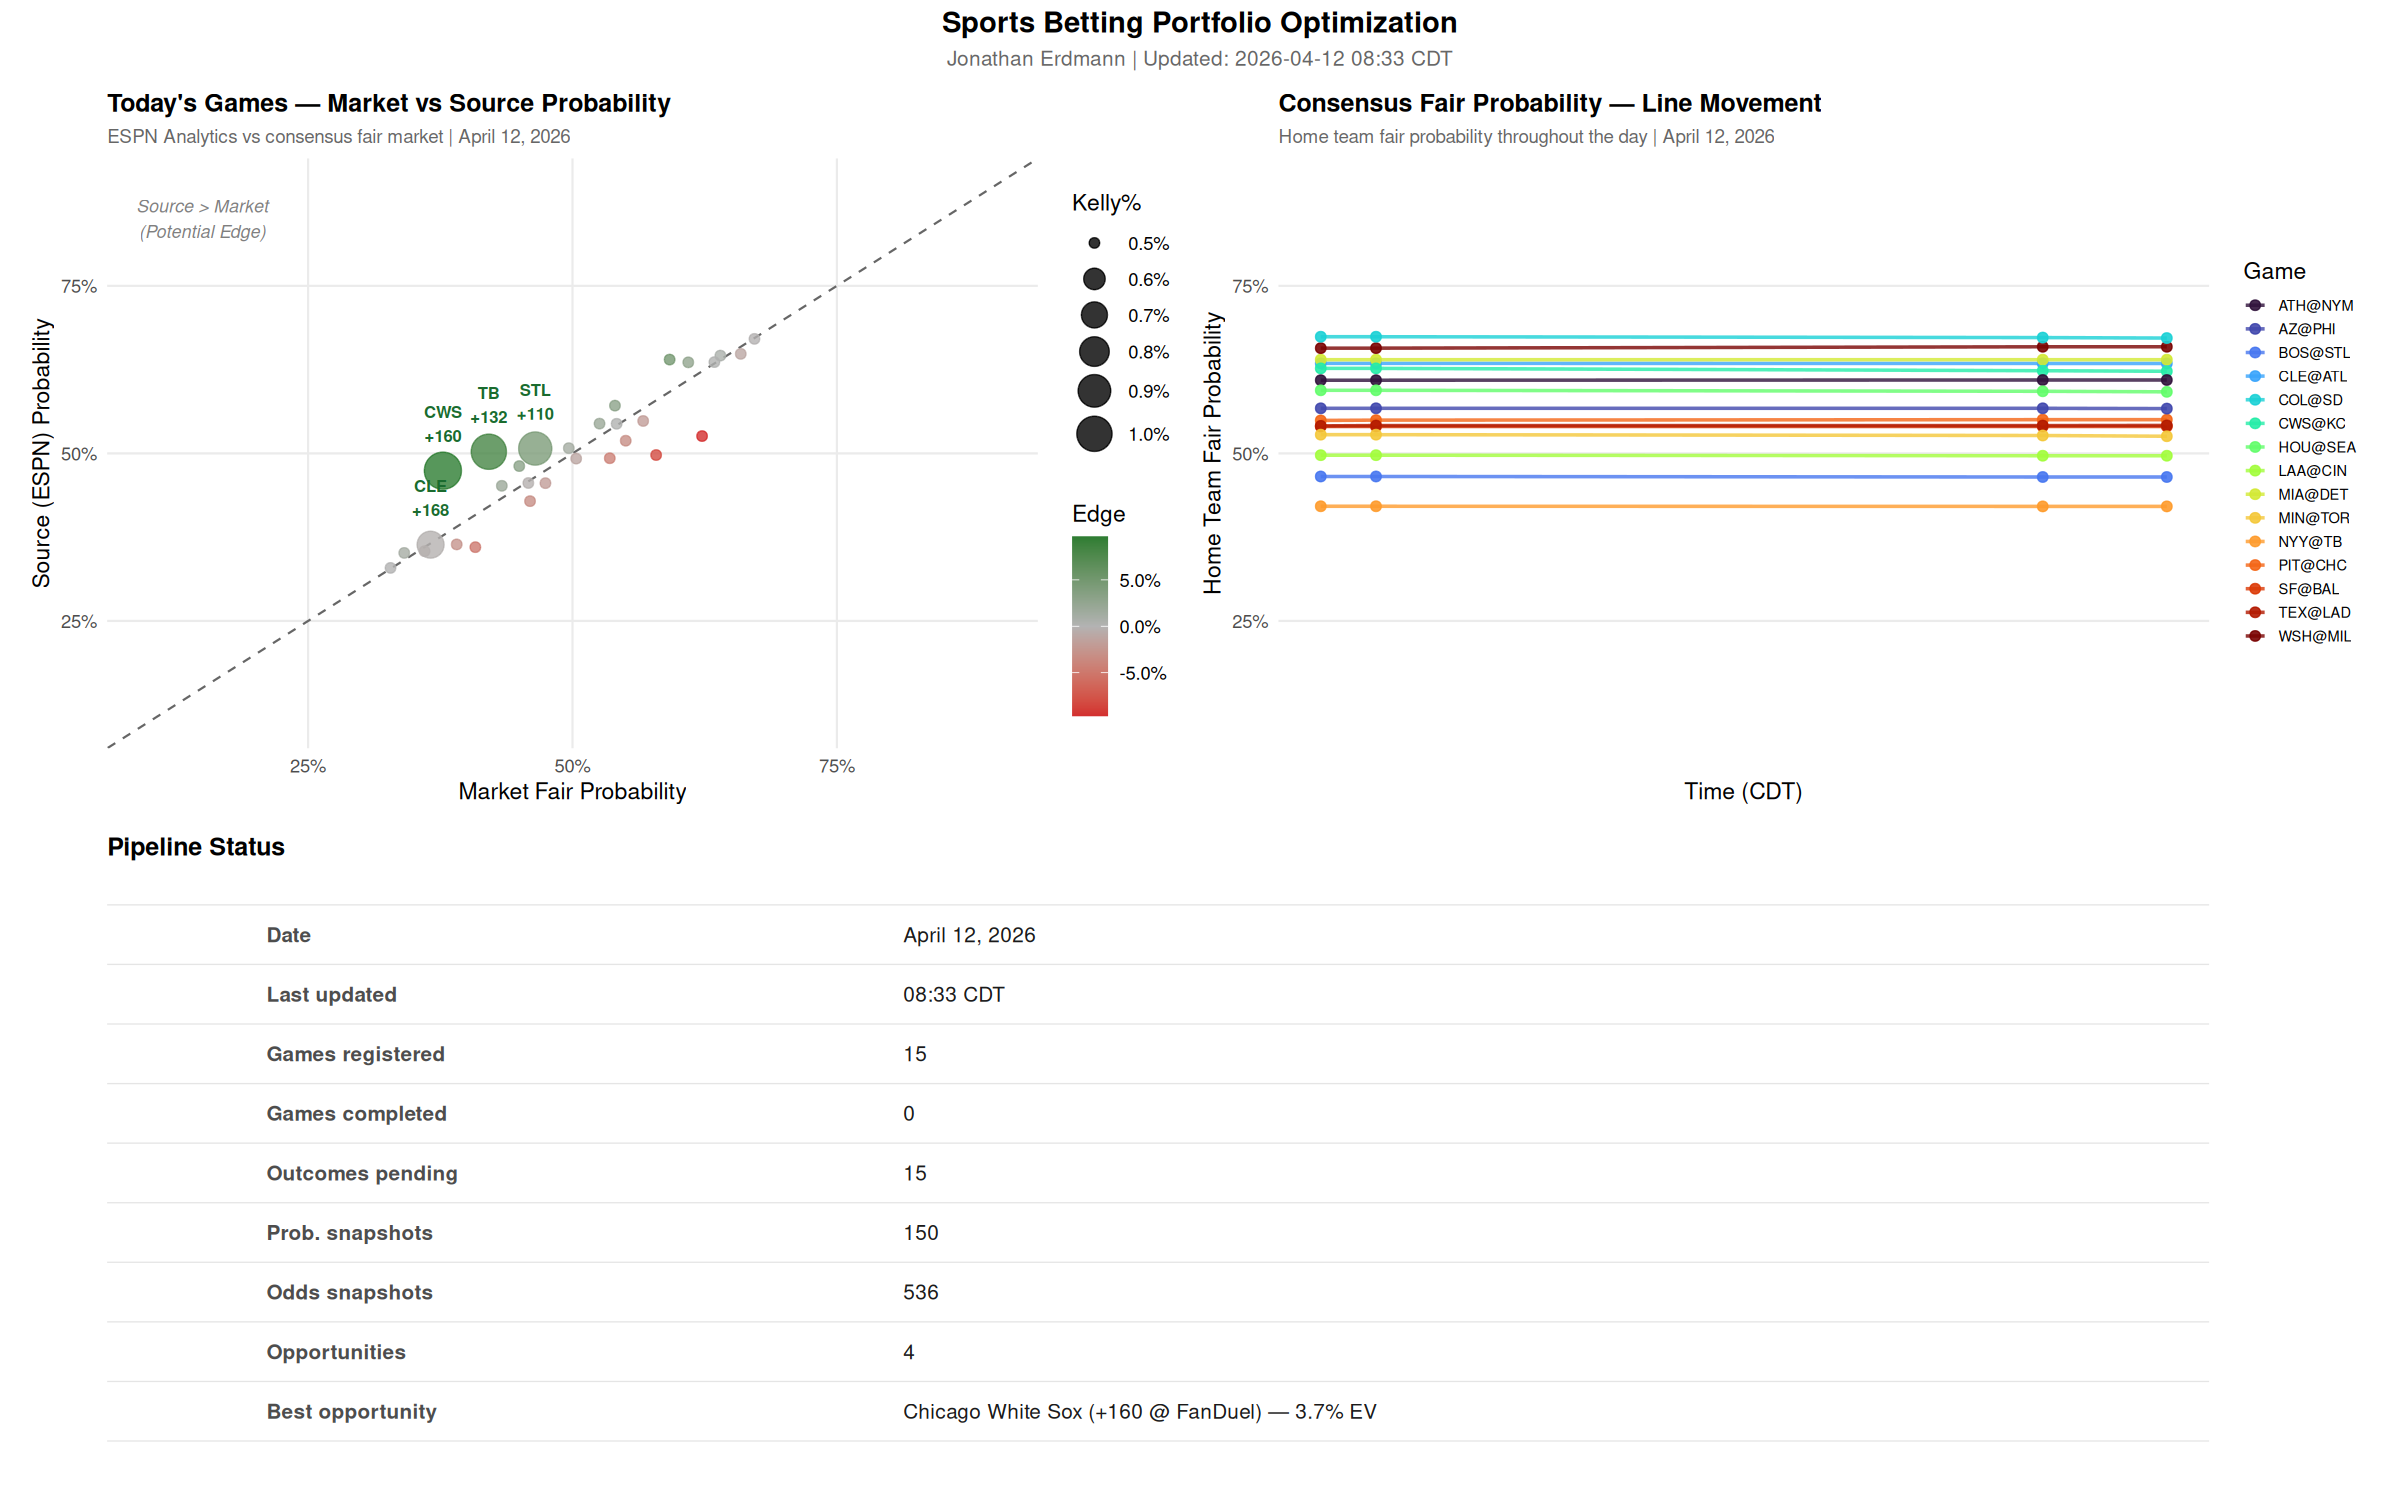
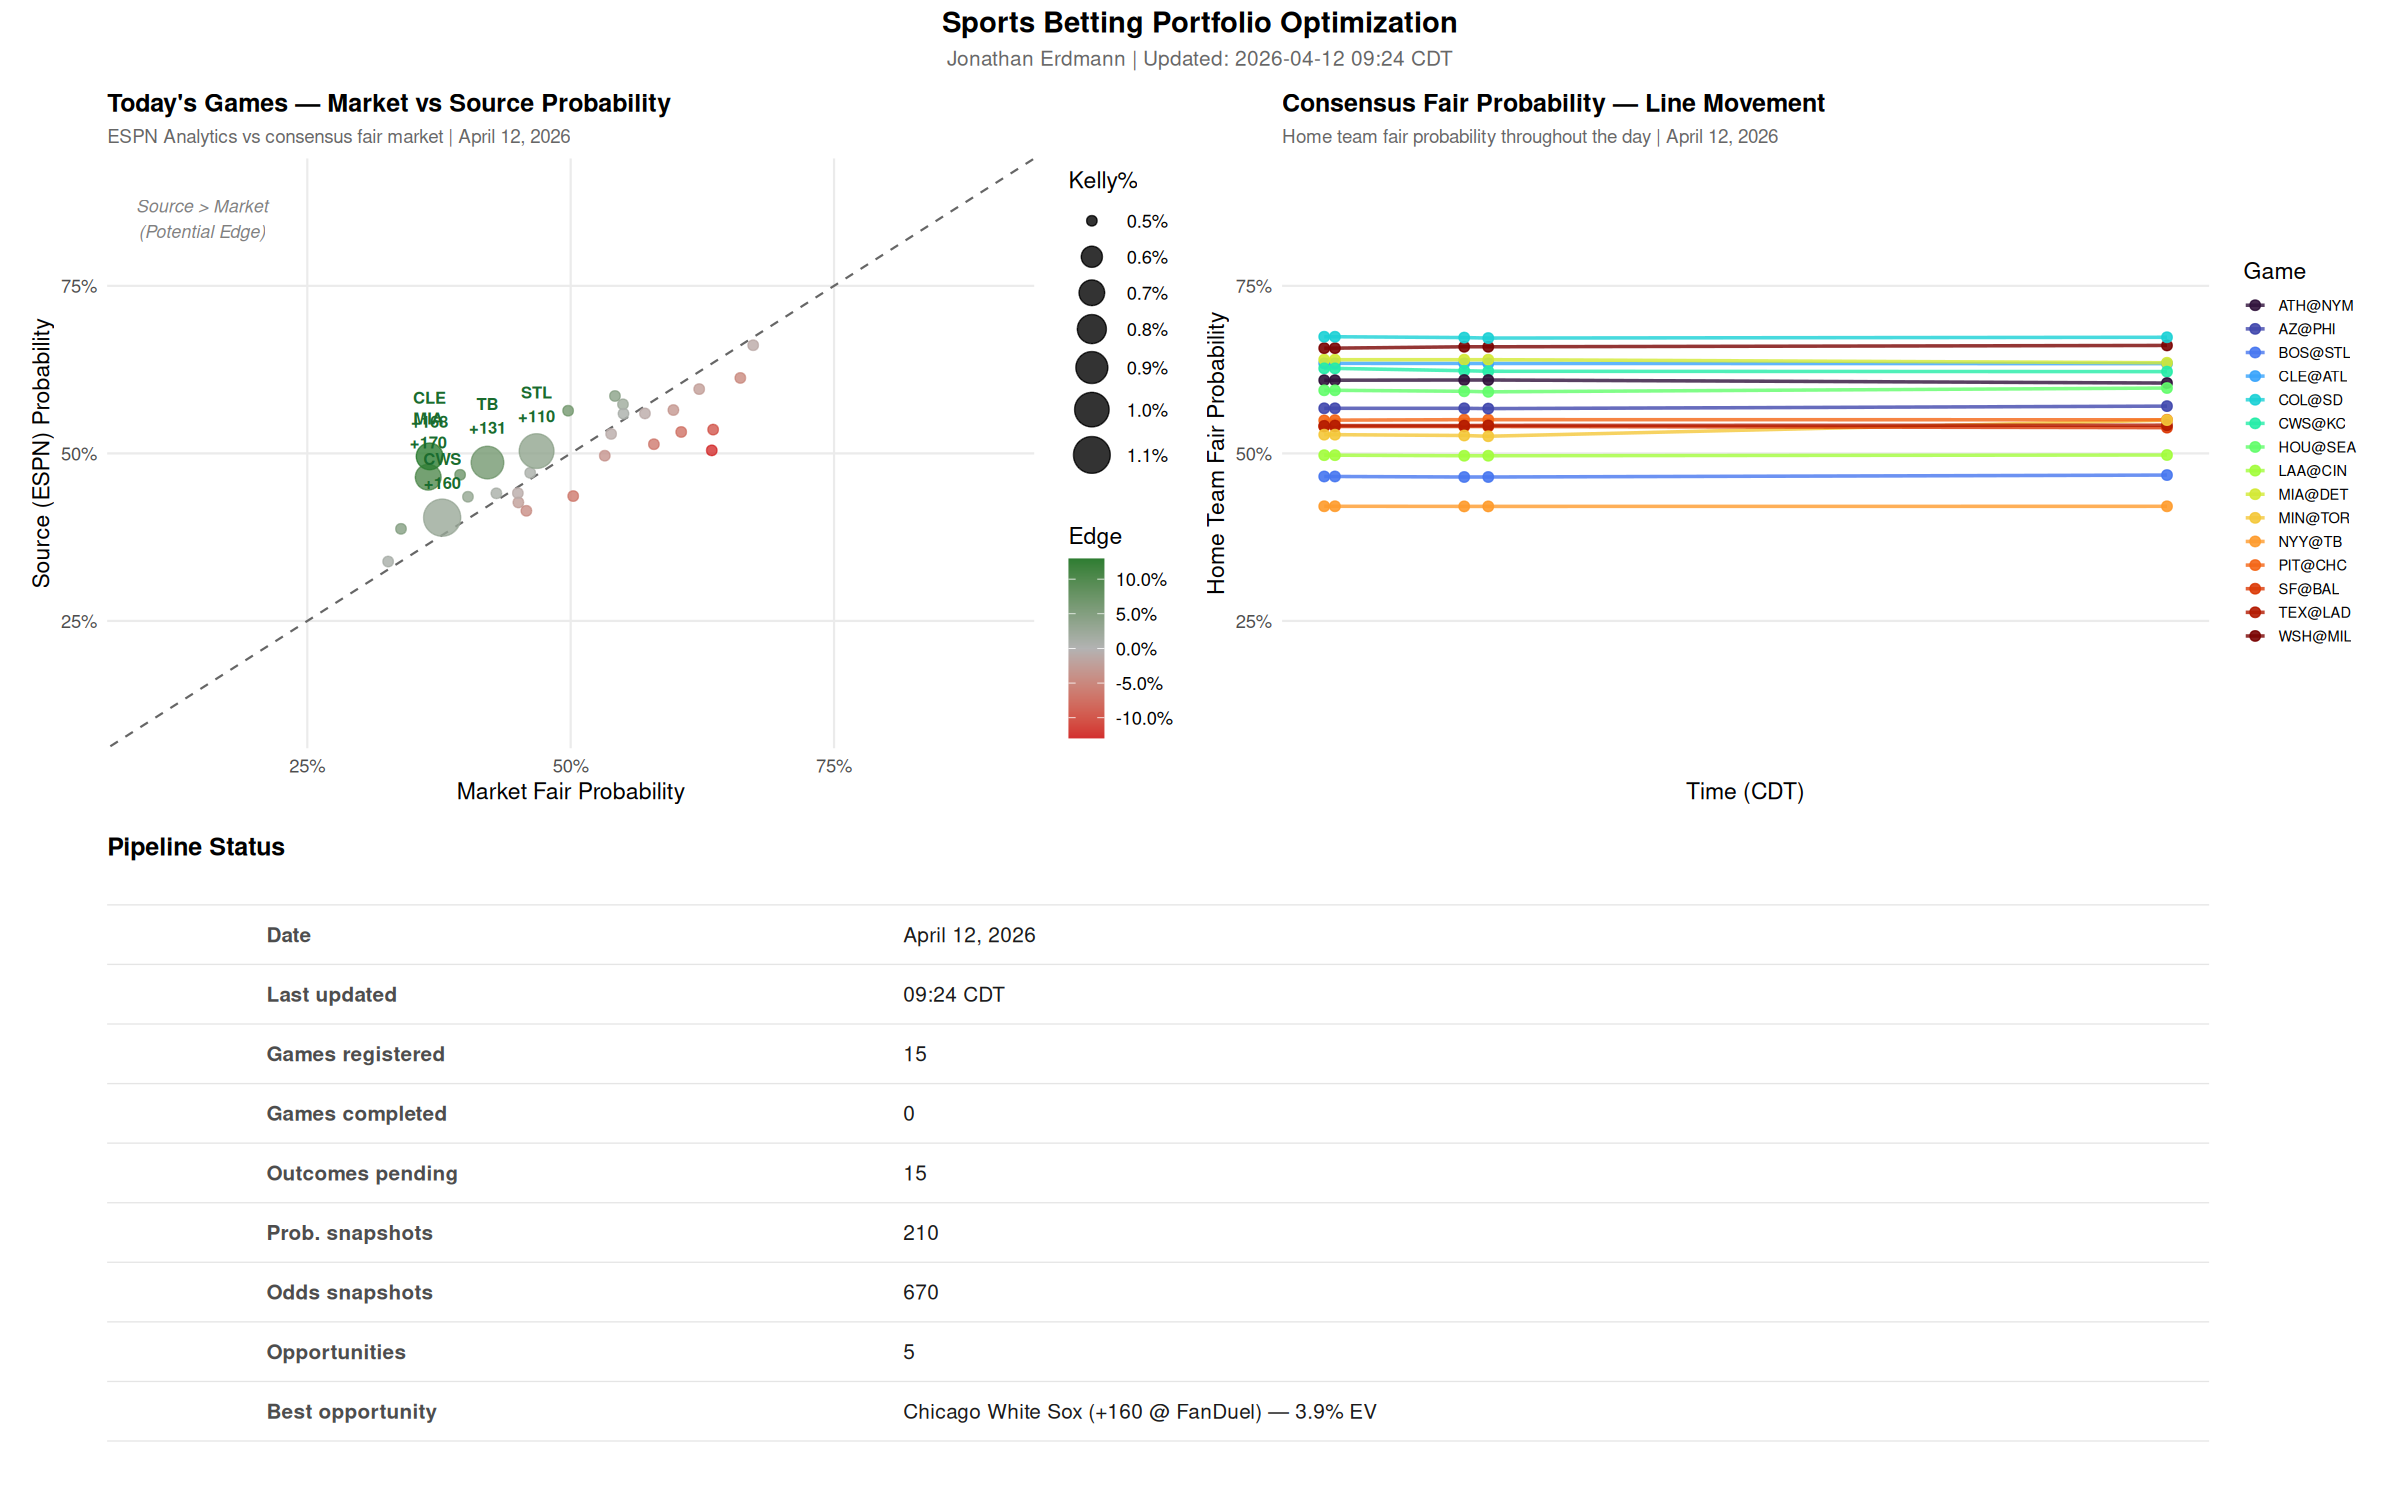
Update dashboard: 2026-04-12 09:24

diff --git a/projects/portfolio-optimization/dashboard.md b/projects/portfolio-optimization/dashboard.md
@@ -6,7 +6,7 @@ permalink: /projects/portfolio-optimization/dashboard/
 
 ## Daily Pipeline Dashboard
 
-**Last updated:** April 12, 2026 08:33 CDT
+**Last updated:** April 12, 2026 09:24 CDT
 
 ---
 
@@ -14,10 +14,11 @@ permalink: /projects/portfolio-optimization/dashboard/
 
 | Team | ML | Market% | Posterior% | EV% | Kelly% | Bet by | Book |
 |---|---|---|---|---|---|---|---|
-| Chicago White Sox | +160 | 37.7% | 39.9% | 3.7% | 0.58% | 11:10 CDT | BetRivers |
-| Tampa Bay Rays | +132 | 42.1% | 44.2% | 2.6% | 0.50% | 10:40 CDT | LowVig.ag |
-| St. Louis Cardinals | +110 | 46.5% | 48.5% | 1.8% | 0.42% | 11:15 CDT | BetOnline.ag |
-| Cleveland Guardians | +168 | 36.6% | 37.9% | 1.5% | 0.22% | 16:20 CDT | BetOnline.ag |
+| Chicago White Sox | +160 | 37.8% | 40.0% | 3.9% | 0.61% | 11:10 CDT | BetRivers |
+| St. Louis Cardinals | +110 | 46.8% | 48.7% | 2.2% | 0.51% | 11:15 CDT | BetOnline.ag |
+| Tampa Bay Rays | +131 | 42.1% | 44.2% | 2.2% | 0.42% | 10:40 CDT | BetUS |
+| Cleveland Guardians | +168 | 36.6% | 37.9% | 1.5% | 0.23% | 16:20 CDT | BetOnline.ag |
+| Miami Marlins | +170 | 36.5% | 37.5% | 1.4% | 0.20% | 10:40 CDT | BetMGM |
 
 ---
 
